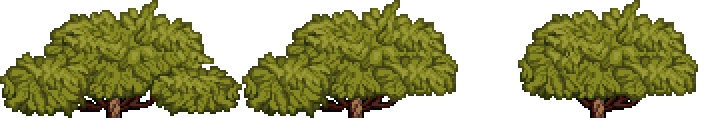
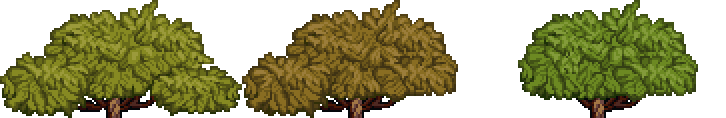
better tree system, color variance, foreground rendering fix

Changed region(s): [[0.3333, 0.0508, 0.6364, 0.9407], [0.697, 0.0254, 0.9697, 0.839], [0.5455, 0.839, 0.5758, 0.8644]]

diff --git a/Core/Foreground/ForegroundRenderer.cs b/Core/Foreground/ForegroundRenderer.cs
@@ -1,5 +1,6 @@
 using Microsoft.Xna.Framework;
 using Microsoft.Xna.Framework.Graphics;
+using System;
 using System.Linq;
 using Terraria;
 using Terraria.ModLoader;
@@ -14,6 +15,8 @@ namespace Stellamod.Core.Foreground
     {
         public float fade;
         public bool tilingInBothAxes;
+        public Vector2 totalParallax;
+        public Vector2 drawOffset;
         public sealed override void SetupContent()
         {
             base.SetupContent();
@@ -79,7 +82,16 @@ namespace Stellamod.Core.Foreground
                 }
                 else
                 {
-                    layer.fade -= 0.01f;
+                    if(layer.fade > 0)
+                    {
+                        layer.fade -= 0.01f;
+                        if(layer.fade <= 0)
+                        {
+                            layer.totalParallax = Vector2.Zero;
+                        }
+                    }
+      
+
                 }
                 layer.fade = MathHelper.Clamp(layer.fade, 0f, 1f);
                 if (layer.fade > 0)
@@ -188,28 +200,25 @@ namespace Stellamod.Core.Foreground
             float drawWidth = foregroundTexture.Width;
             float drawHeight = foregroundTexture.Height * scale;
 
-            int worldSurfaceY = (int)((Main.worldSurface - 50) * 16);
-            int cameraY = (int)Main.Camera.Center.Y;
-            int diff = cameraY - worldSurfaceY;
-            diff = -diff;
-
 
             Vector2 parallax = Vector2.Zero;
             float zLayer = 0f;
             layer.SetLayering(ref zLayer, ref parallax);
-
-            float yParallax = (diff * parallax.Y);
-
-            float cameraX = (Main.Camera.Center.X);
-            float xParallax = (cameraX * parallax.X);
-
             float y = (Main.screenHeight - drawHeight);
+
+            Vector2 oldScreenPosition = Main.screenLastPosition;
+            Vector2 screenPosition = Main.screenPosition;
+            Vector2 cameraMovement = screenPosition - oldScreenPosition;
+            Vector2 parallaxAdd = cameraMovement * parallax;
+            layer.totalParallax += parallaxAdd;
+
             Vector2 drawPosition = Vector2.Zero;
             drawPosition.Y += y;
-            drawPosition.Y += yParallax;
-            drawPosition.X -= xParallax;
-            drawPosition.X += 20000;
-            drawPosition.Y += 500;
+            drawPosition.Y -= layer.totalParallax.Y ;
+            drawPosition.X -= layer.totalParallax.X;
+            drawPosition.X -= 5000;
+            drawPosition += layer.drawOffset;
+
             Vector2 cameraCenterWorld = Main.Camera.Center;
             Vector2 cameraTopLeft = cameraCenterWorld - new Vector2(Main.screenWidth, Main.screenHeight) / 2;
             Vector2 cameraBottomRight = cameraCenterWorld + new Vector2(Main.screenWidth, Main.screenHeight) / 2;

diff --git a/WorldG/VeilGen.cs b/WorldG/VeilGen.cs
@@ -922,8 +922,6 @@ namespace Stellamod.WorldG
         }
         public static void PlaceAcaciaTrees(int treex, int treey, int height)
         {
-            treey -= 1;
-
             if (treey - height < 1)
                 return;
 
@@ -935,16 +933,16 @@ namespace Stellamod.WorldG
                 }
             }
 
-            WorldGen.PlaceTile(treex, treey - 1, ModContent.TileType<AcaciaTree>(), true, true);
+            WorldGen.PlaceTile(treex, treey, ModContent.TileType<AcaciaTree>(), true, true);
             for (int y = 0; y < height; y++)
             {
                 if(y == height -1 )
                 {
-                    WorldGen.PlaceTile(treex, treey - (y + 2), ModContent.TileType<AcaciaTreeTop>(), true, true);
+                    WorldGen.PlaceTile(treex, treey - (y + 1), ModContent.TileType<AcaciaTreeTop>(), true, true);
                 }
                 else
                 {
-                    WorldGen.PlaceTile(treex, treey - (y + 2), ModContent.TileType<AcaciaTree>(), true, true);
+                    WorldGen.PlaceTile(treex, treey - (y + 1), ModContent.TileType<AcaciaTree>(), true, true);
 
                 }
      

diff --git a/Backgrounds/MarshReeds.cs b/Backgrounds/MarshReeds.cs
@@ -7,6 +7,11 @@ namespace Stellamod.Backgrounds
 {
     public class MarshReeds : ForegroundLayer
     {
+        public override void SetStaticDefaults()
+        {
+            base.SetStaticDefaults();
+            drawOffset = new Vector2(0, -150);
+        }
         public override bool IsActive()
         {
             return Main.LocalPlayer.GetModPlayer<BiomePlayer>().ZoneMarsh;
@@ -16,6 +21,7 @@ namespace Stellamod.Backgrounds
             base.SetLayering(ref zLayer, ref parallax);
             parallax.X = 1.2f;
             parallax.Y = 1;
+         
         }
     }
 }

diff --git a/Core/Biomes/BiomePlayer.cs b/Core/Biomes/BiomePlayer.cs
@@ -53,11 +53,11 @@ namespace Stellamod.Content.Biomes
 
             if (ZoneMarsh)
             {
-                if (Main.rand.NextBool(7))
+                if (Main.rand.NextBool(16))
                 {
                     ForegroundParticleRenderer.NewParticle<MarshLeaf>();
                 }
-                if (Main.rand.NextBool(7))
+                if (Main.rand.NextBool(16))
                 {
                     ForegroundParticleRenderer.NewParticle<MarshPetal>();
                 }

diff --git a/Core/WindLineSystem/WindLineRenderer.cs b/Core/WindLineSystem/WindLineRenderer.cs
@@ -130,7 +130,7 @@ namespace Stellamod.Core.WindLineSystem
 
 
             float windSpeed = MathHelper.Clamp(MathF.Abs(Main.windSpeedCurrent), 0f, 1f);
-            int denom = (int)MathHelper.Lerp(30, 15, windSpeed);
+            int denom = (int)MathHelper.Lerp(60, 30, windSpeed);
 
 
             int yPosition = Main.LocalPlayer.position.ToTileCoordinates().Y;

diff --git a/Content/Areas/PunkerTown/TilesPT/AcaciaTree.cs b/Content/Areas/PunkerTown/TilesPT/AcaciaTree.cs
@@ -221,7 +221,7 @@ namespace Stellamod.Content.Areas.PunkerTown.TilesPT
                 flip = SpriteEffects.FlipHorizontally;
             }
 
-            bool drawBranch = _random.NextBool(6);
+            bool drawBranch = _random.NextBool(4);
             Vector2 branchoffset = new Vector2(-2, 0);
             if (drawBranch)
             {
